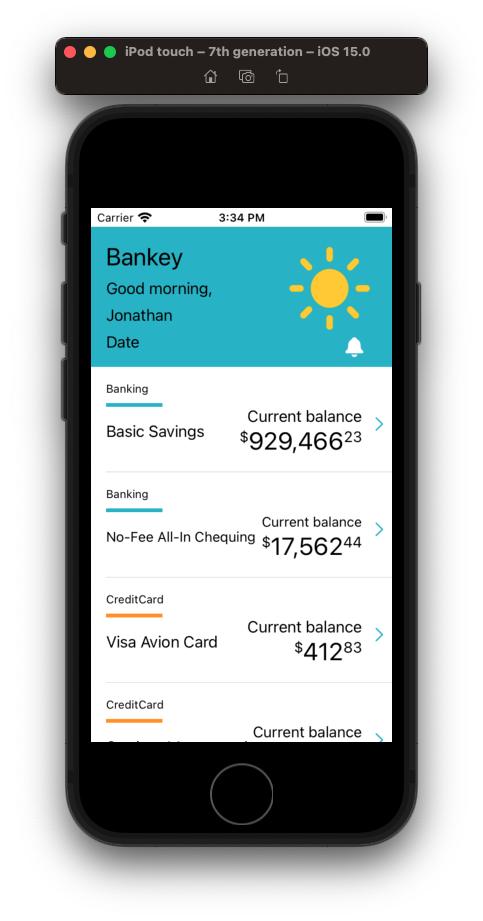
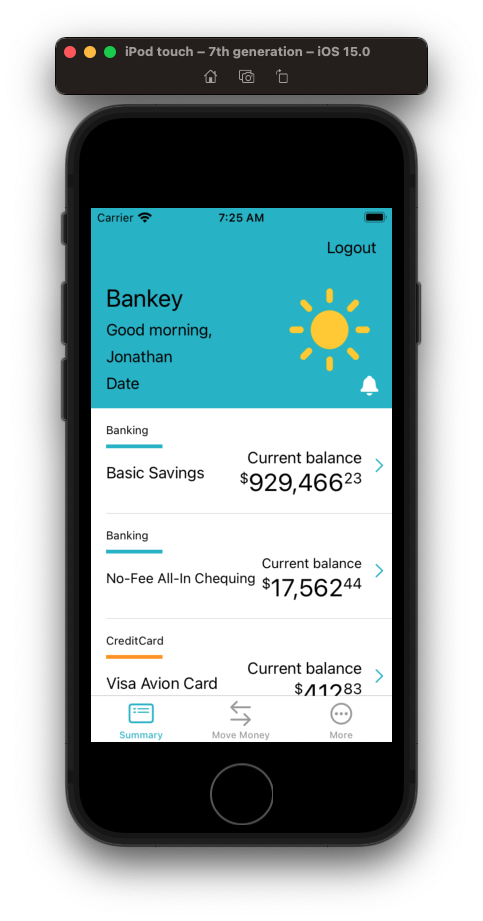
Bell and tappable added

diff --git a/Bankey/11-Animating-with-Core-Animation/README.md b/Bankey/11-Animating-with-Core-Animation/README.md
@@ -147,19 +147,35 @@ let shakeyBellView = ShakeyBellView()
 And then adding it to our view and doing Auto Layout just like any other control.
 
 ```swift
-
+private func commonInit() {
+        setupShakeyBell()
+    }
+    
+    private func setupShakeyBell() {
+        shakeyBellView.translatesAutoresizingMaskIntoConstraints = false
+        addSubview(shakeyBellView)
+        
+        NSLayoutConstraint.activate([
+            shakeyBellView.trailingAnchor.constraint(equalTo: trailingAnchor),
+            shakeyBellView.bottomAnchor.constraint(equalTo: bottomAnchor)
+        ])
+    }
+}
 ```
+
+![](images/0.png)
+
 
 ### Making it tappable
 
-One last thing before we tackle the animation of shakey, we need to make it tappable. We don't necessary need to make it tappable from a design point of view, but it helps with debugging, and it's also a cool thing to know how to do.
+One last thing before we tackle the animation, we need to make it tappable. We don't necessary need to make it tappable from a design point of view, but it helps with debugging, and it's also a cool thing to know how to do.
 
-**NotificationBellView**
+**ShakeyBellView**
 
 ```swift
 override init(frame: CGRect) {
 super.init(frame: frame)
-setup()
+    setup()
 }
 
 extension NotificationBellView {
@@ -172,7 +188,7 @@ extension NotificationBellView {
 }
 
 // MARK: - Actions
-extension NotificationBellView {
+extension ShakeyBellView {
     @objc func imageViewTapped(_ recognizer: UITapGestureRecognizer) {
         // insert animation here...
         print("Shaking!!!")
